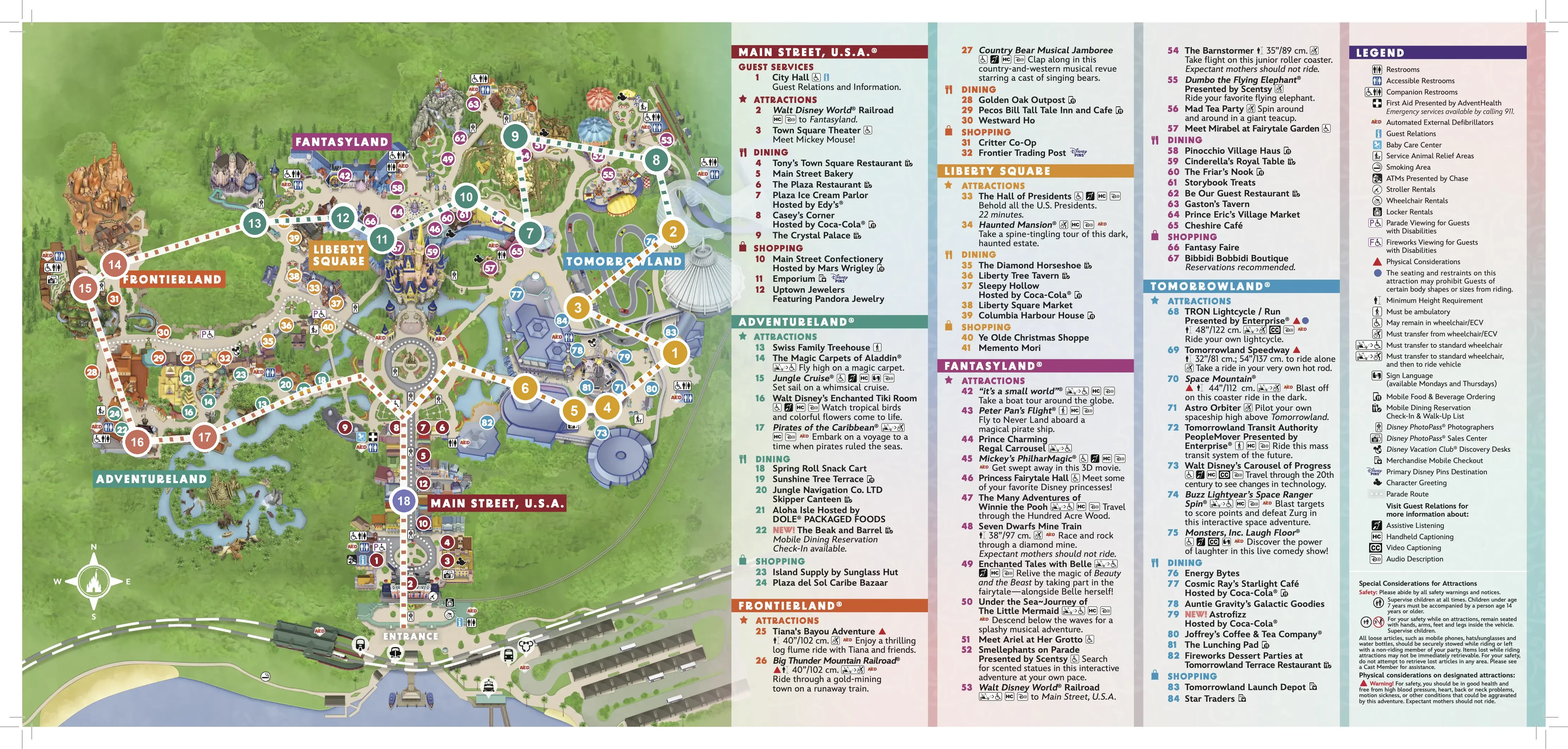
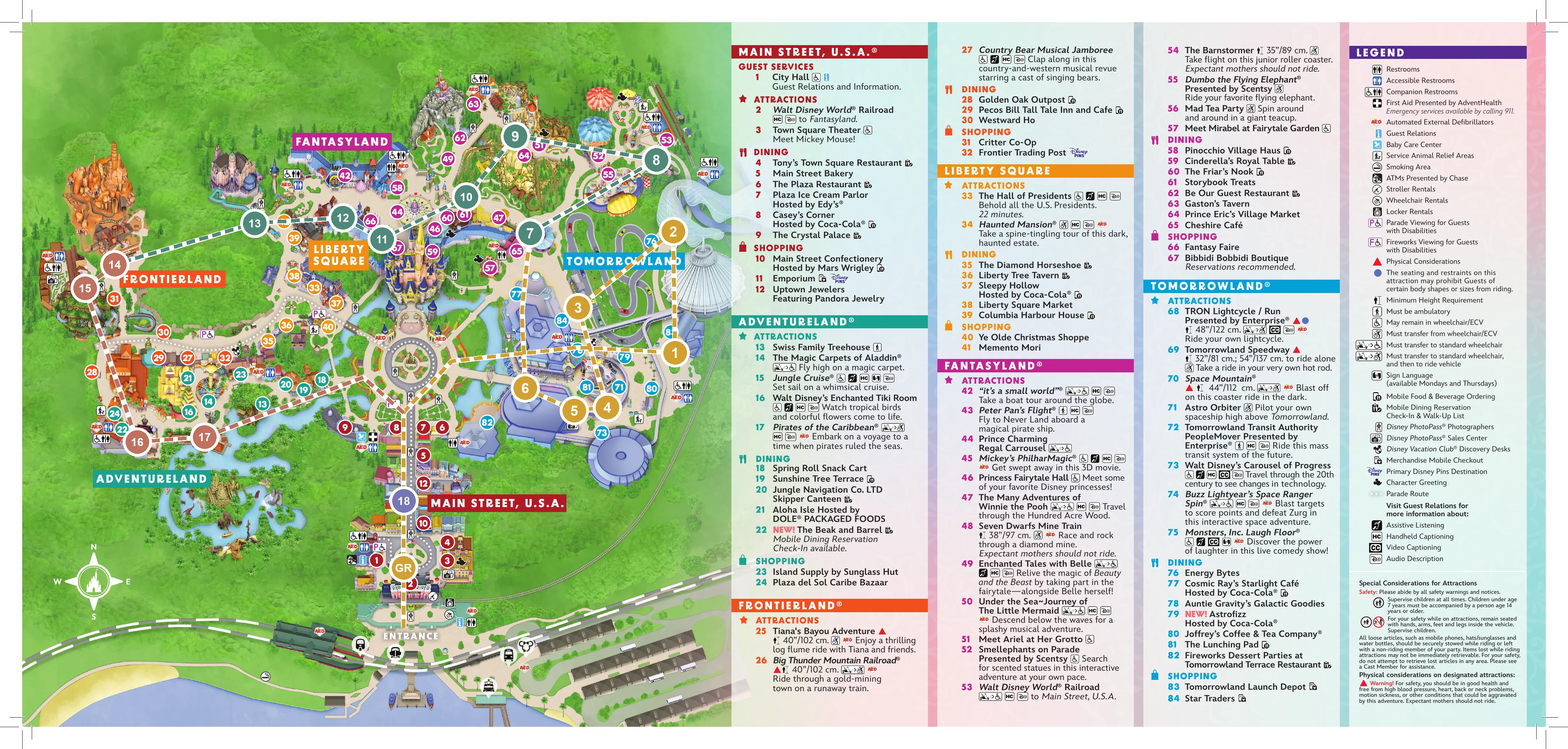
Disney page: redraw the guide-map route in the Tomorrowland-first order
Drawn on a clean render of Disney's official map, with a GR pin at City Hall.

Changed region(s): [[0.0, 0.0311, 0.9933, 0.9633], [0.8691, 0.7768, 0.9622, 0.9322], [0.031, 0.9011, 0.0621, 0.9633]]

diff --git a/public/disney/index.html b/public/disney/index.html
@@ -210,7 +210,7 @@ button:focus-visible{outline:3px solid var(--mid);outline-offset:2px}
   </section>
 
   <figure class="guidemap">
-    <a href="MK-guide-map.webp?v=2" target="_blank"><img class="poster" src="MK-guide-map.webp?v=2" width="4446" height="2124" alt="Magic Kingdom guide map with Saturday's route, the attraction list, and the legend" fetchpriority="high"></a>
+    <a href="MK-guide-map.webp?v=3" target="_blank"><img class="poster" src="MK-guide-map.webp?v=3" width="4446" height="2124" alt="Magic Kingdom guide map with Saturday's route, the attraction list, and the legend" fetchpriority="high"></a>
     <figcaption class="poster-note">Guide map with the route and the number key. Tap to open full size, then pinch to zoom.</figcaption>
   </figure>
 
